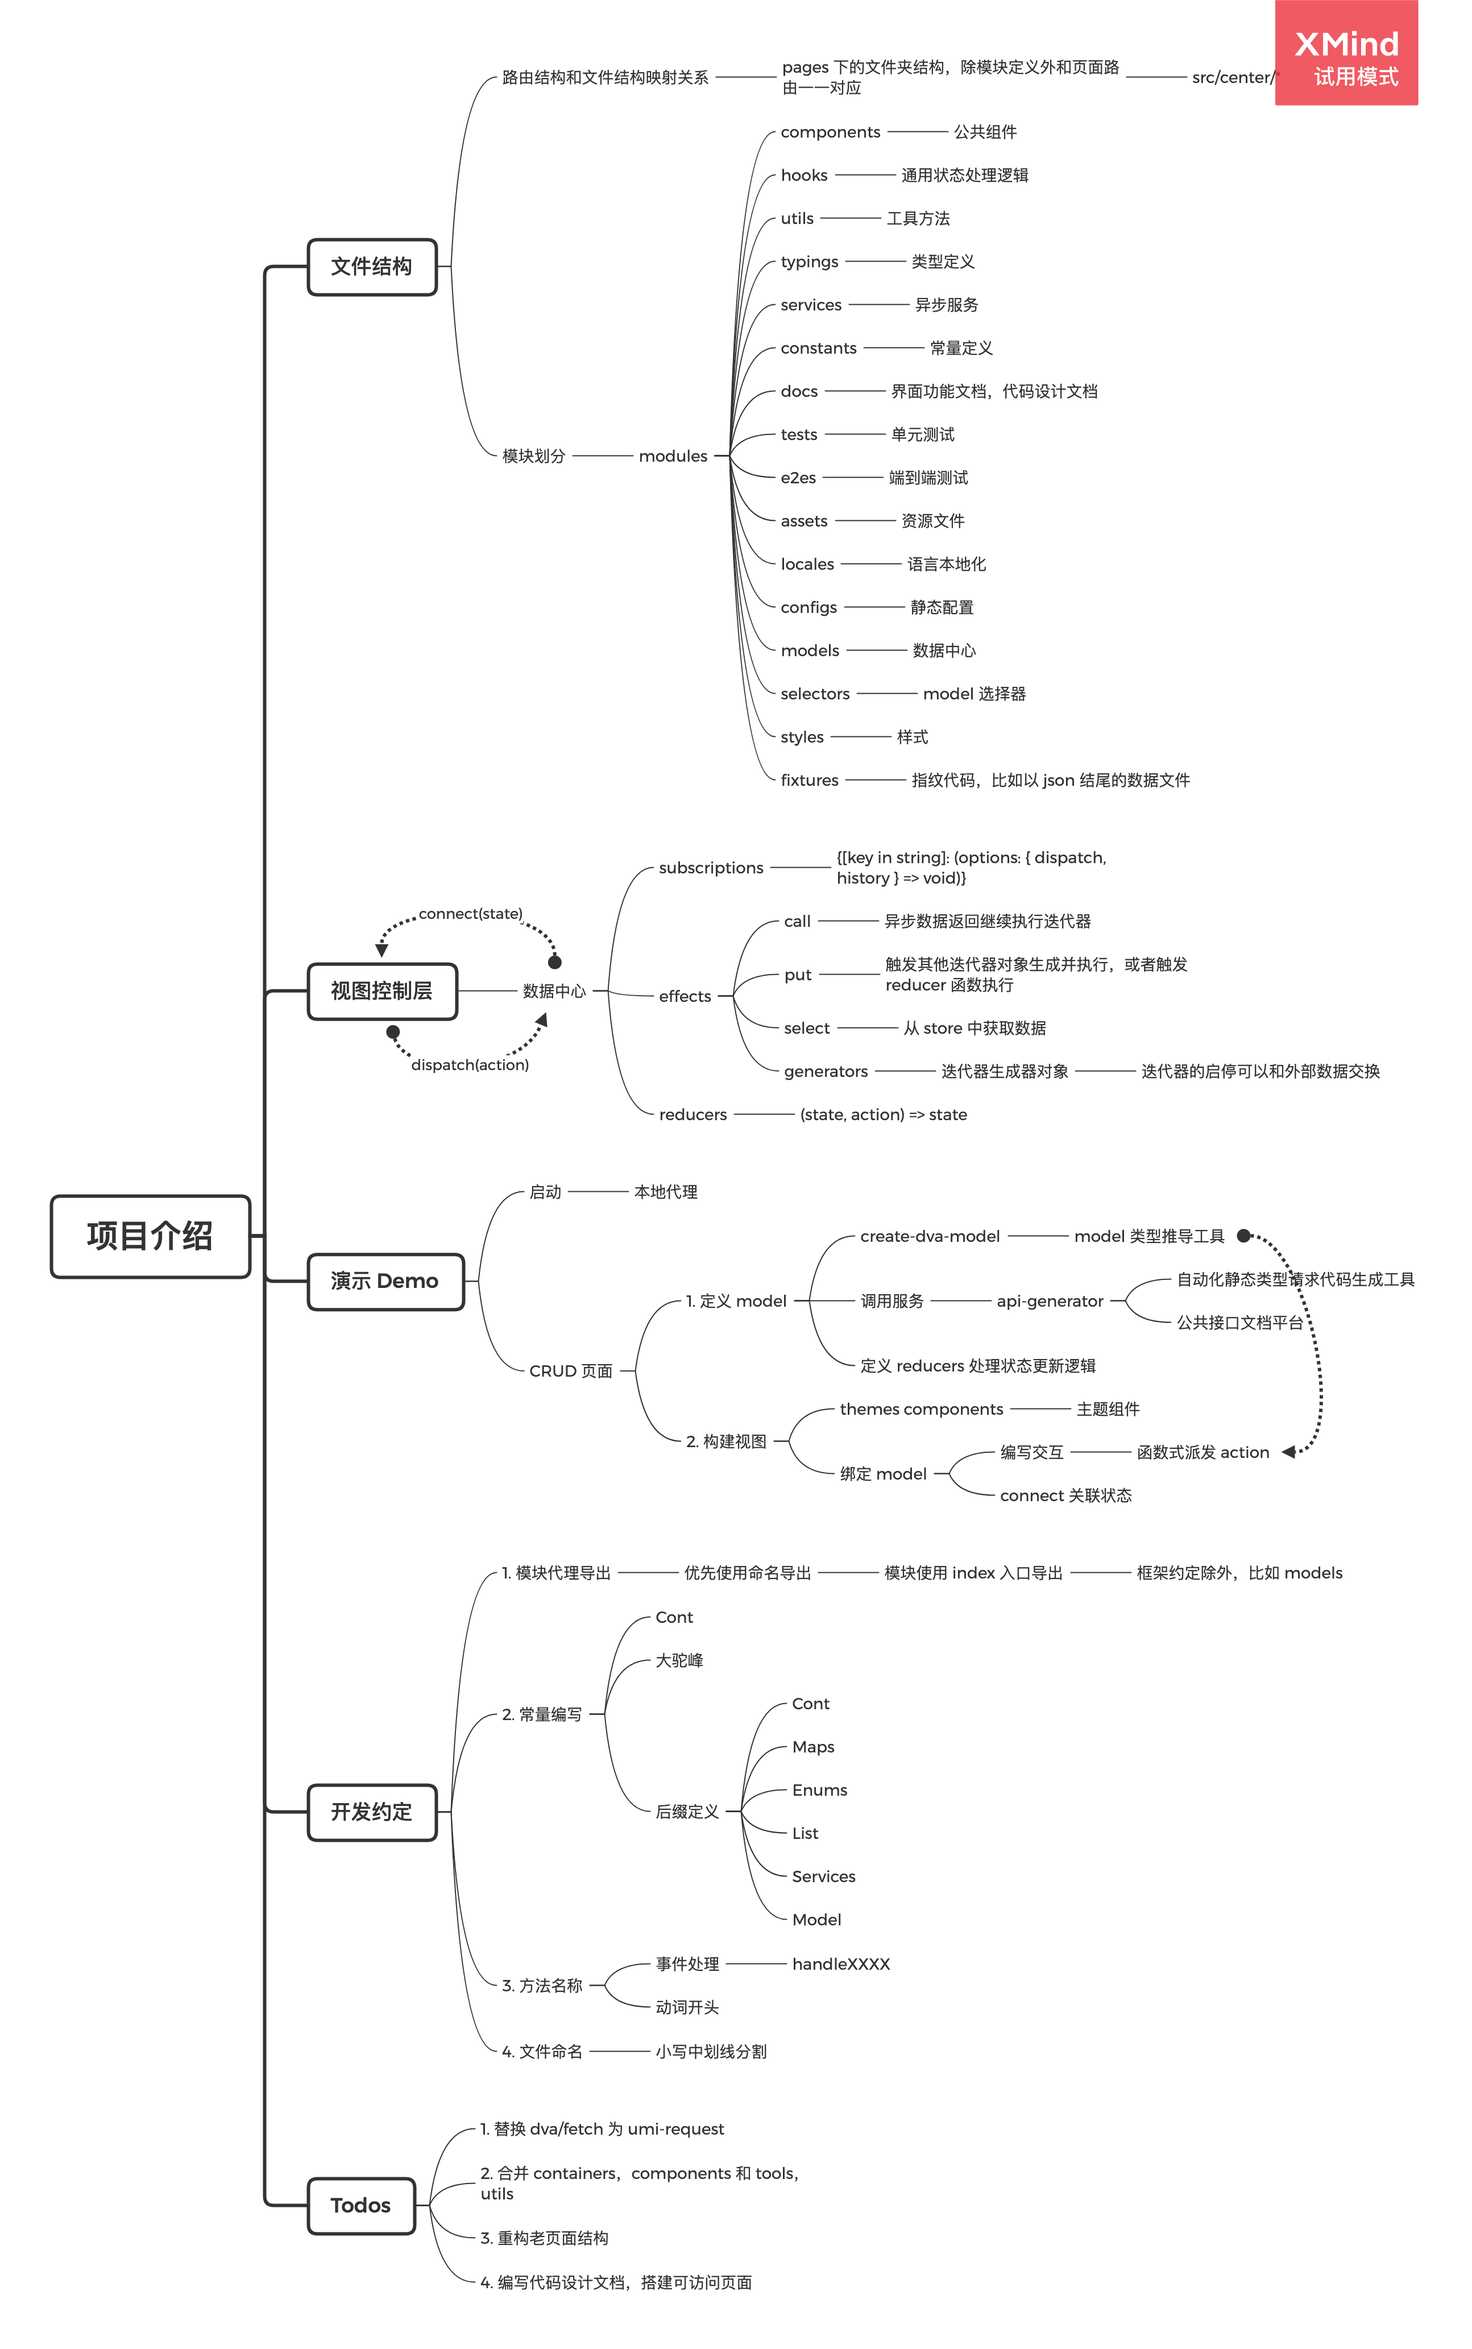
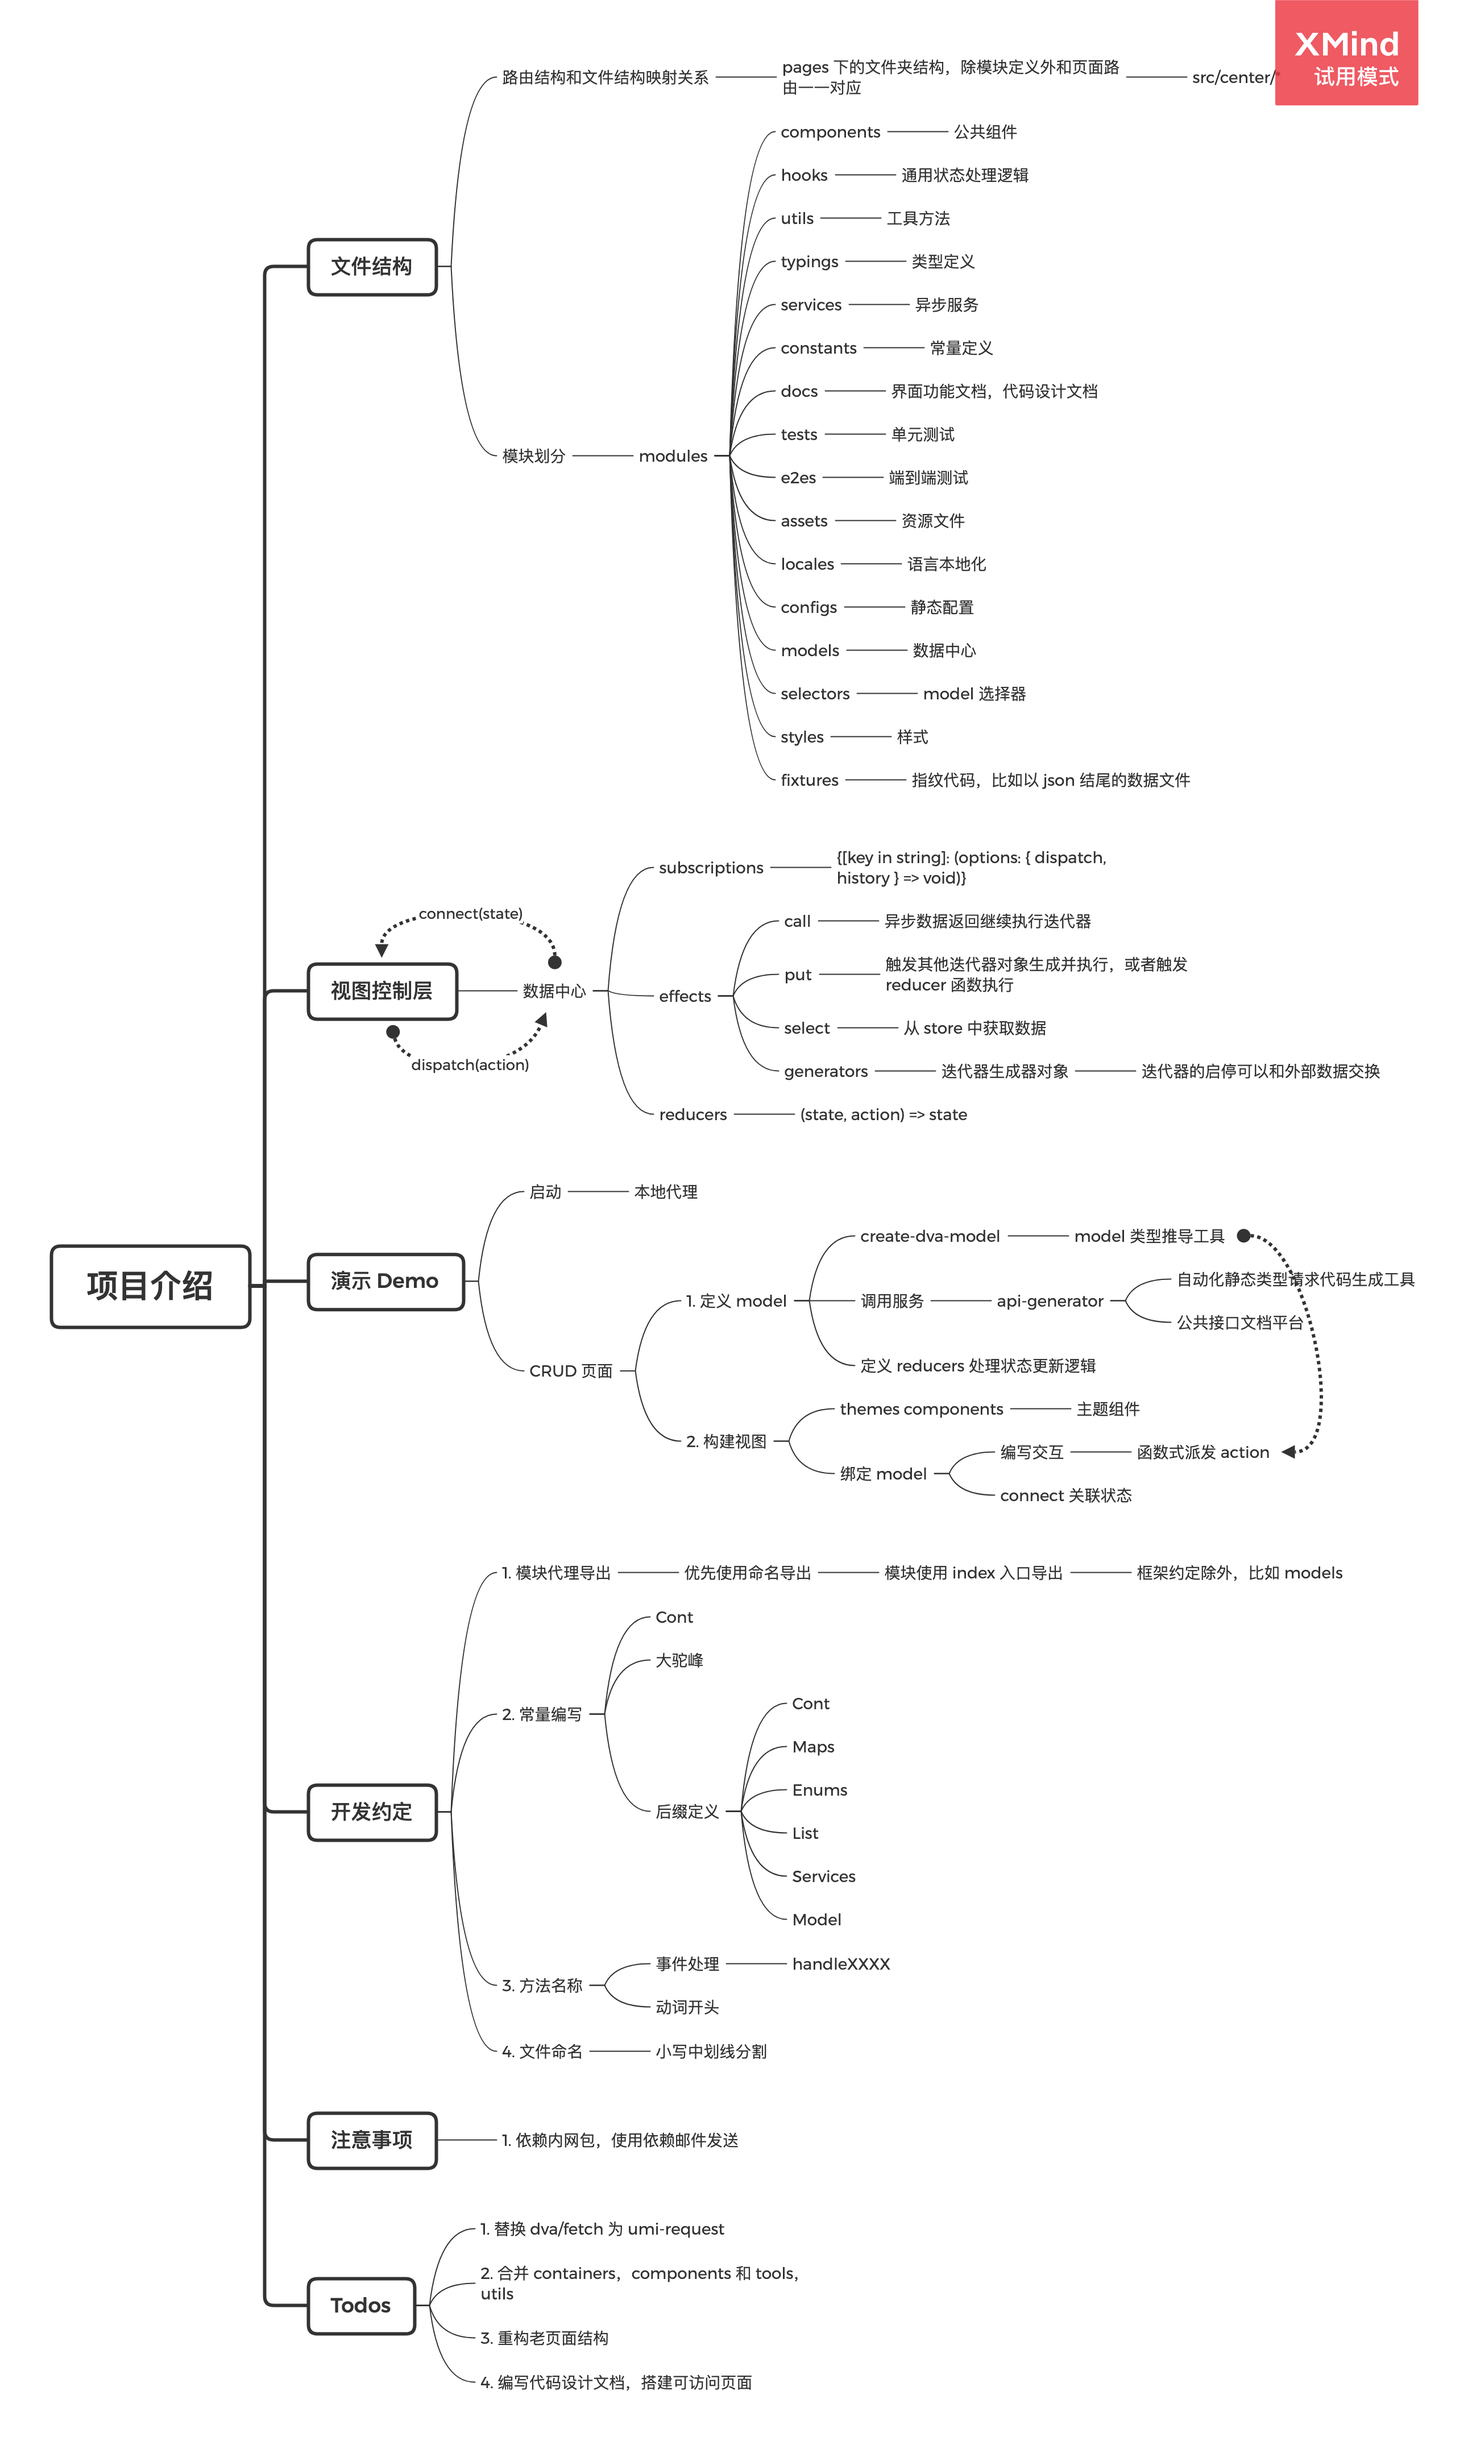
doc: 修改 RM

diff --git a/README.md b/README.md
@@ -180,6 +180,10 @@
 
 - 小写中划线分割
 
+## 注意事项
+
+### 1. 依赖内网包，使用依赖邮件发送
+
 ## Todos
 
 ### 1. 替换 dva/fetch 为 umi-request
